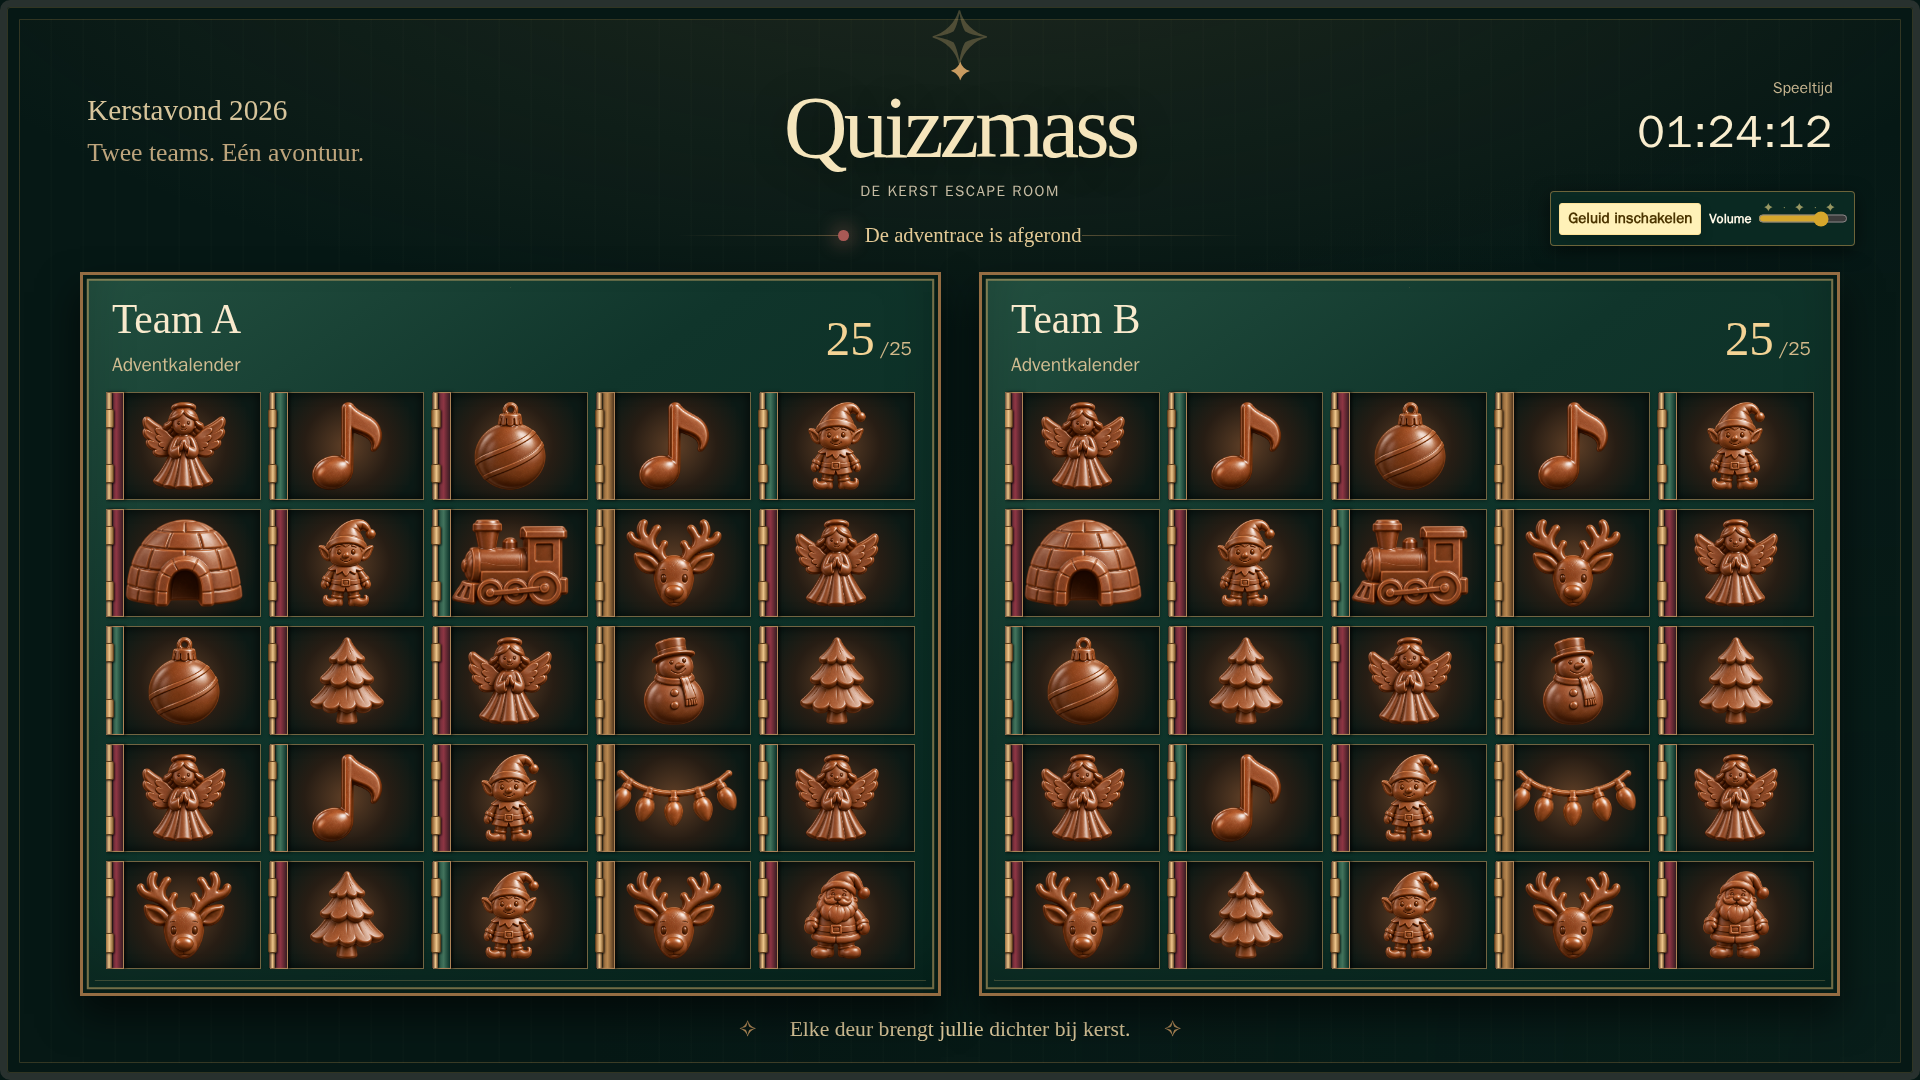
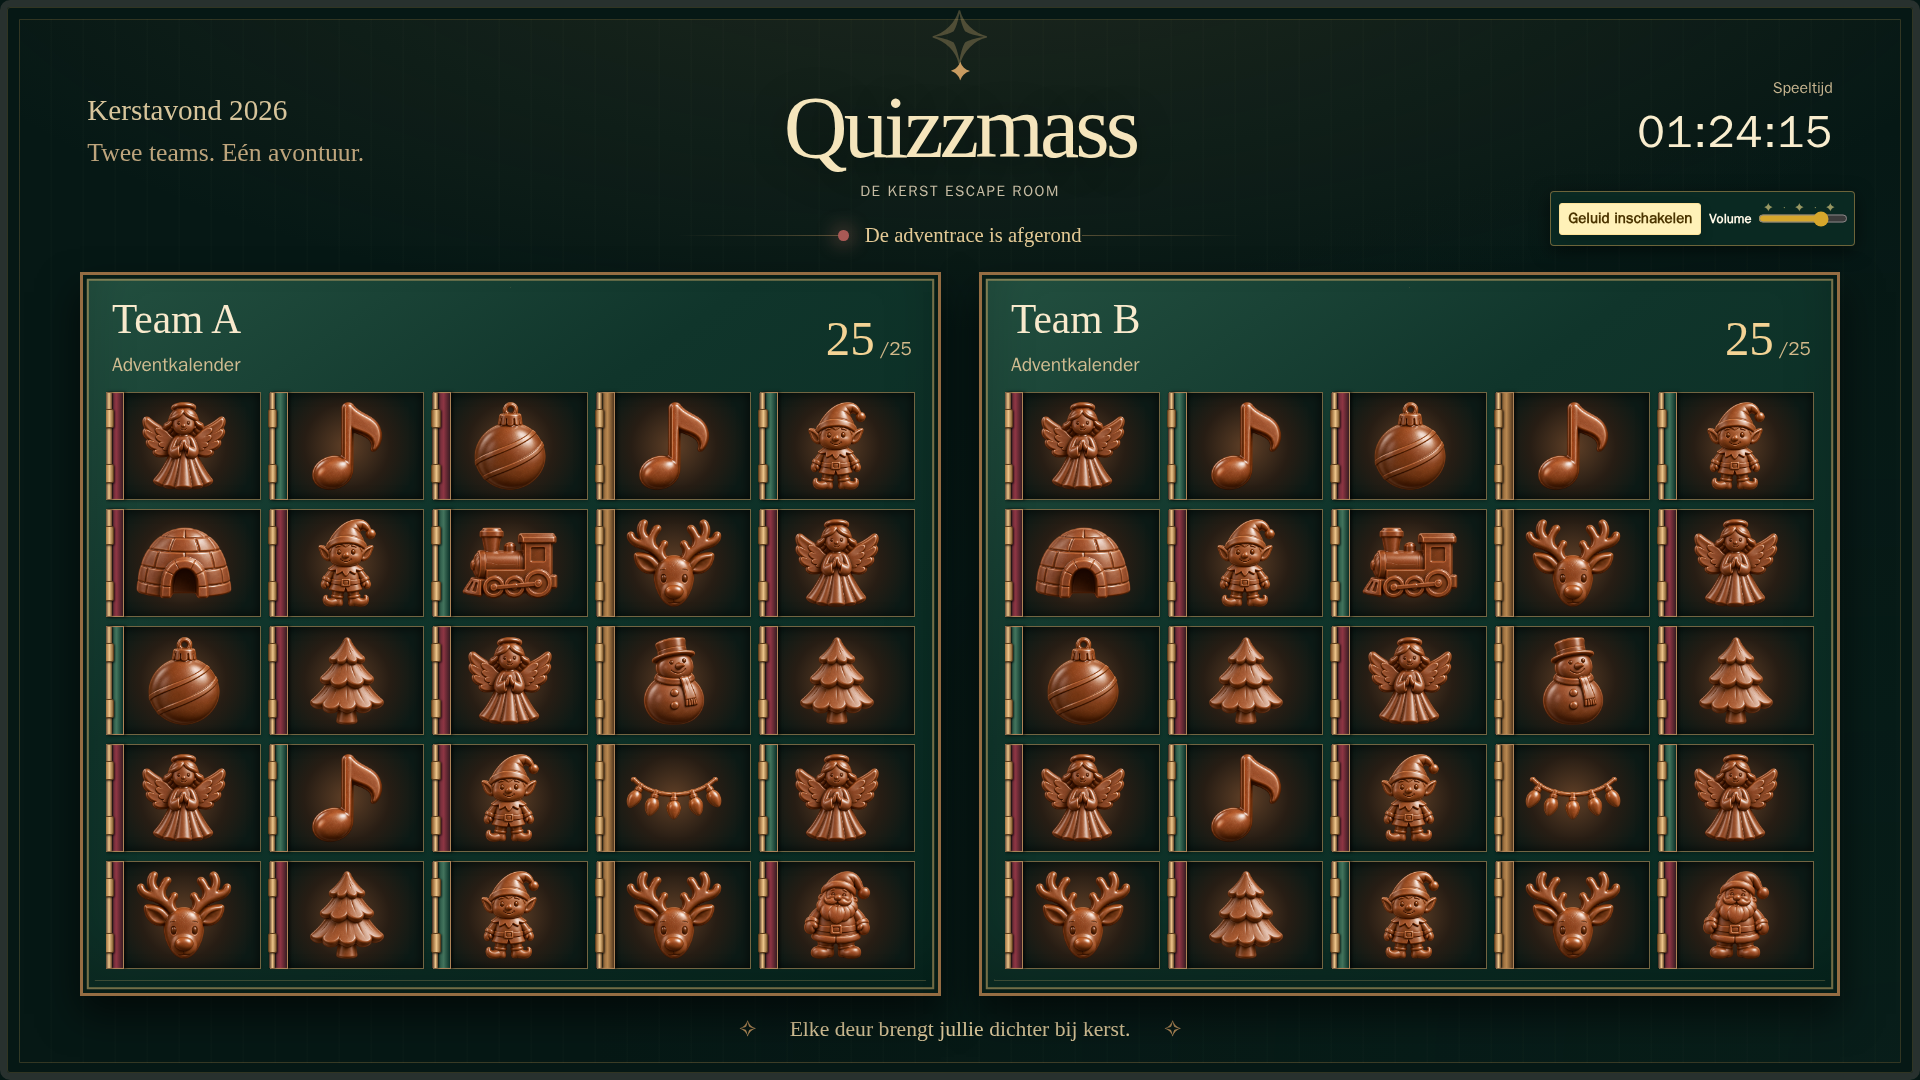
fix(ui): keep chocolate artwork centred clear of door edges (#102)

diff --git a/quiz/static/quiz/public-overview.css b/quiz/static/quiz/public-overview.css
@@ -405,6 +405,8 @@ body.game-page--overview:has(.public-status--advent)::before { content: none; }
   margin: 0;
 }
 .game-page--overview .public-status--advent .advent-door {
+  --advent-open-edge-width: clamp(6px, .85cqw, 16px);
+  --advent-art-clearance: calc(var(--advent-open-edge-width) + 12px);
   min-height: 0;
   aspect-ratio: auto;
   overflow: visible;
@@ -621,7 +623,7 @@ body.game-page--overview:has(.public-status--advent)::before { content: none; }
   top: -1px;
   bottom: -1px;
   left: -1px;
-  width: clamp(6px, .85cqw, 16px);
+  width: var(--advent-open-edge-width);
   border: 1px solid #ad8357;
   background: linear-gradient(90deg, #48232d, #8d3543 60%, #381c22);
   box-shadow: inset 1px 0 1px #f2d0ac55, 2px 0 3px #000a;

diff --git a/quiz/templates/quiz/_advent_calendar.html b/quiz/templates/quiz/_advent_calendar.html
@@ -26,7 +26,7 @@
           <span class="advent-door__reveal" aria-hidden="true">
             {% if door.status == 'completed' %}
               {% with chocolate=door.number|door_chocolate %}
-              <span class="advent-door__chocolate">
+              <span class="advent-door__chocolate{% if chocolate.is_broad %} advent-door__chocolate--broad{% endif %}">
                 <svg class="advent-door__motif" viewBox="{{ chocolate.view_box }}" preserveAspectRatio="xMidYMid meet" aria-hidden="true">
                   <image href="{% static chocolate.static_path %}" width="{{ chocolate.width }}" height="{{ chocolate.height }}"/>
                 </svg>

diff --git a/quiz/static/quiz/advent-calendar.css b/quiz/static/quiz/advent-calendar.css
@@ -177,8 +177,14 @@
   top: 50%;
   left: 50%;
   transform: translate(-50%, -50%);
-  width: 84%;
+  /* Keep the artwork centred on the opening, with equal clearance on both
+     sides even though the retained open-door edge is only on the left. */
+  width: min(84%, calc(100% - var(--advent-art-clearance, 12px) - var(--advent-art-clearance, 12px)));
   height: 84%;
+}
+
+.advent-door__chocolate--broad {
+  height: 76%;
 }
 
 .advent-door__motif {

diff --git a/quiz/templatetags/quiz_format.py b/quiz/templatetags/quiz_format.py
@@ -102,6 +102,7 @@ for _asset in _CHOCOLATES["assets"].values():
         f"{left - 12} {top - 12} {right - left + 24} {bottom - top + 24}"
     )
     _asset["static_path"] = "quiz/chocolates/" + Path(_asset["file"]).name
+    _asset["is_broad"] = Path(_asset["file"]).stem in {"iglo", "trein"}
 
 
 @register.filter

diff --git a/docs/ui/evidence/issue-102.md b/docs/ui/evidence/issue-102.md
@@ -48,3 +48,36 @@ cycle must then be adapted to the approved fixed/earned-only artwork contract.
    simpler gold door edges. Original PNGs, proportions and mapping match.
 
 Live visual approval is pending. #102 and parent #100 remain open; no merging.
+
+
+## Fullscreen sizing correction — visual approval pending
+
+The initial server checkpoint (`de9e7c5`) let the igloo/train grow from about
+77 px wide at 1920×900 to 116 px at 1920×1080. Clearance from the retained
+open-door edge shrank from 22 px to about 2 px, allowing its shadow to overlap
+the artwork. Checking containment in the whole opening alone missed this.
+
+The correction reserves equal horizontal space on both sides, based on the
+existing open-door edge width plus 12 px. Artwork remains centred on the whole
+opening: it is not shifted right to avoid the hinge. Igloo/train also use a
+76%-height optical box rather than the default 84%, reducing their visual weight
+when the available height controls their size. Original PNGs/viewports and all
+hinges, door layout, state and animation/polling code remain unchanged.
+
+Updated live comparisons (both calendars fully revealed):
+- [Windowed-height viewport, 1920×900](issue-102/full-1920x900.png)
+- [Fullscreen-height viewport, 1920×1080](issue-102/full-1920x1080.png)
+- [Larger fullscreen viewport, 2560×1440](issue-102/full-2560x1440.png)
+
+The partial/full 1920×1080 screenshots above have also been refreshed. Disposable
+Django render smoke covered both progress states at all three sizes: exact
+25-door mappings for both teams, earned-only images, original local asset loads,
+no clipped artwork, equal horizontal/vertical scale and no historical reveal
+echo. Unchanged polling preserved calendar identity at 1920×1080.
+
+Measured visible artwork bounds remain centred on each opening within 0.01 px
+in both axes. Minimum clearance from the open-door edge across all 50 chocolates
+is 13 px at both 1920px-wide sizes and at least 13.5 px at 2560×1440. Igloo/train
+clearance is 25.5 px at 1920×900, 13 px at 1920×1080 and 13.6 px at 2560×1440.
+The three existing calendar presentation checks also passed. Final verification
+and reviews still await explicit user visual confirmation.

diff --git a/docs/ui/midnight-advent.md b/docs/ui/midnight-advent.md
@@ -49,7 +49,7 @@ All ordinary player/operator copy is **Dutch-first**; use **Team A** and **Team 
 ### Advent cabinet and chocolate
 - Exactly 25 numbered doors per team on public TV and Game Master; **no persistent 25-door grid on the team Puzzle View**.
 - Completed doors visibly hinge/open to reveal the **approved shaped milk-chocolate clues**, superseding the original rectangular embossed decorative tiles (product decision 2026-10-18; #101/#102). No visible names or retained numbers on completed doors.
-- Use the 11 original transparent PNGs in `quiz/static/quiz/chocolates/` and the exact fixed mapping in `quiz/chocolate_manifest.json`, identical for both teams/across games. Repeated subjects reuse one file. Proportional viewports account for transparent margins with breathing room; wide lights and tall figures must remain intact and recognisable at TV size.
+- Use the 11 original transparent PNGs in `quiz/static/quiz/chocolates/` and the exact fixed mapping in `quiz/chocolate_manifest.json`, identical for both teams/across games. Repeated subjects reuse one file. Proportional viewports account for transparent margins with breathing room; wide lights and tall figures must remain intact and recognisable at TV size. Reserve symmetric clearance for the retained open-door edge and shadow as the viewport grows; keep visible artwork centred in each opening. Igloo/train use a modestly smaller optical height.
 - Only server-completed doors render clue artwork. These are earned final-puzzle clues; door 25's Santa is not needed to answer the finale. No new gallery/zoom/phone collection is introduced. Use the #101 handoff concepts and previews as references, never as production state/code.
 - Current and future states remain distinguishable from completed, with readable numerals and accurate progress. Door opening is a **one-shot transition** when authoritative completed count advances, not every 500ms poll or every reload. On fresh load, completed doors render open without an animation storm.
 - TV-level Freeze adds readable frost to the affected calendar **without replacing the calendar or hiding progress**. Only the public frozen boolean is exposed.
